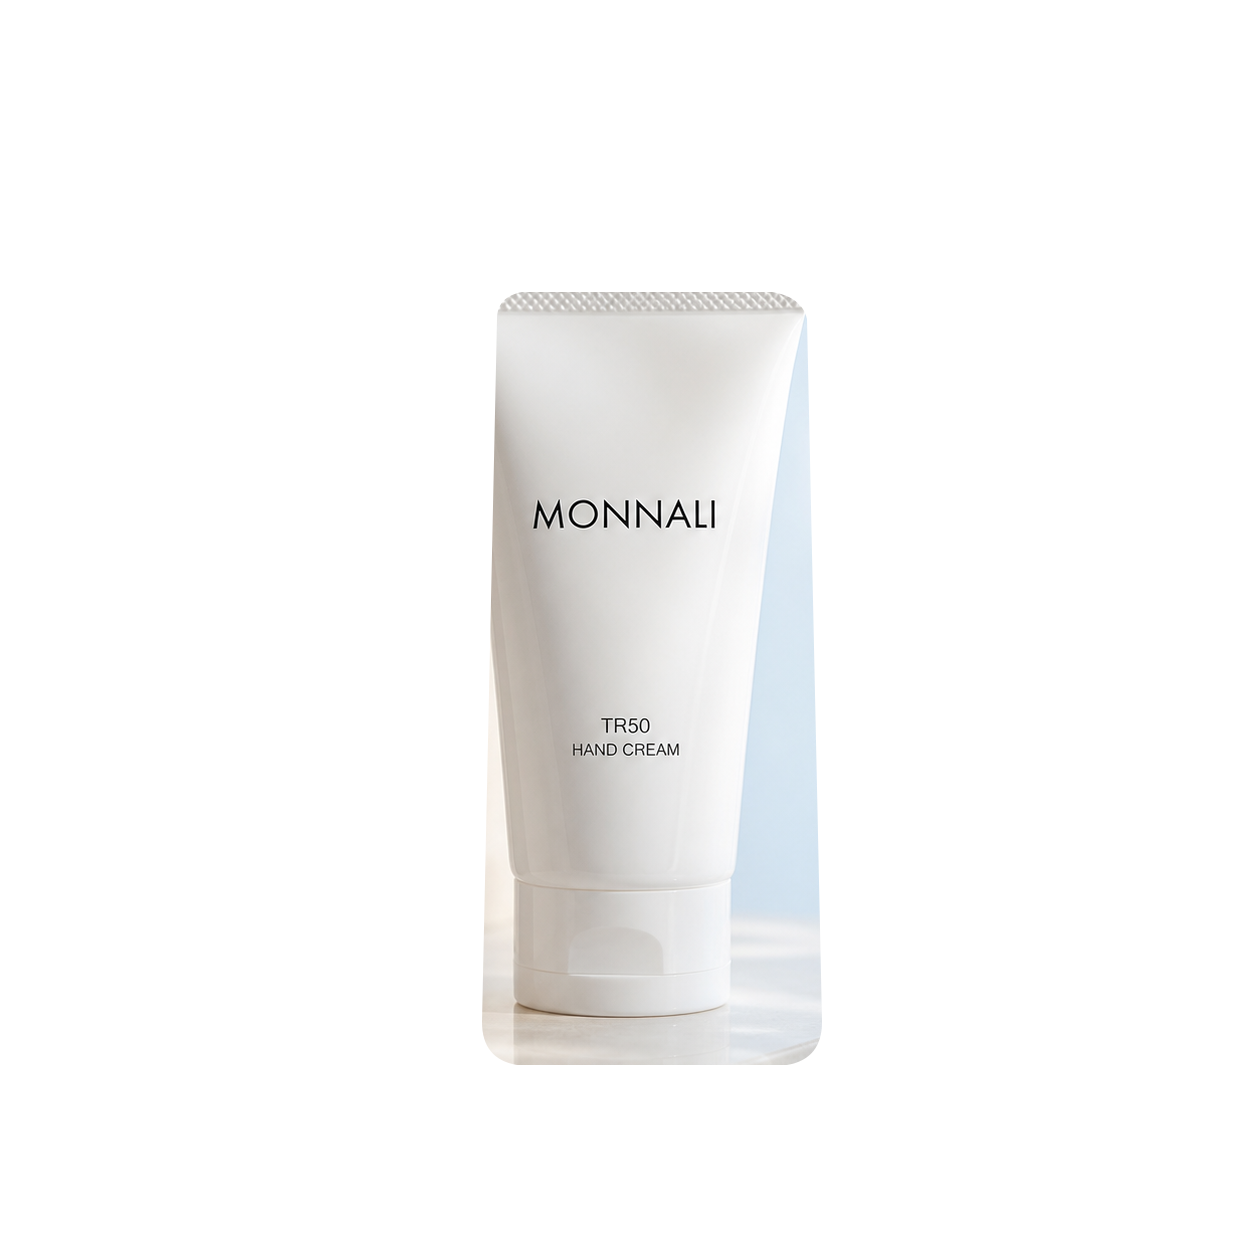
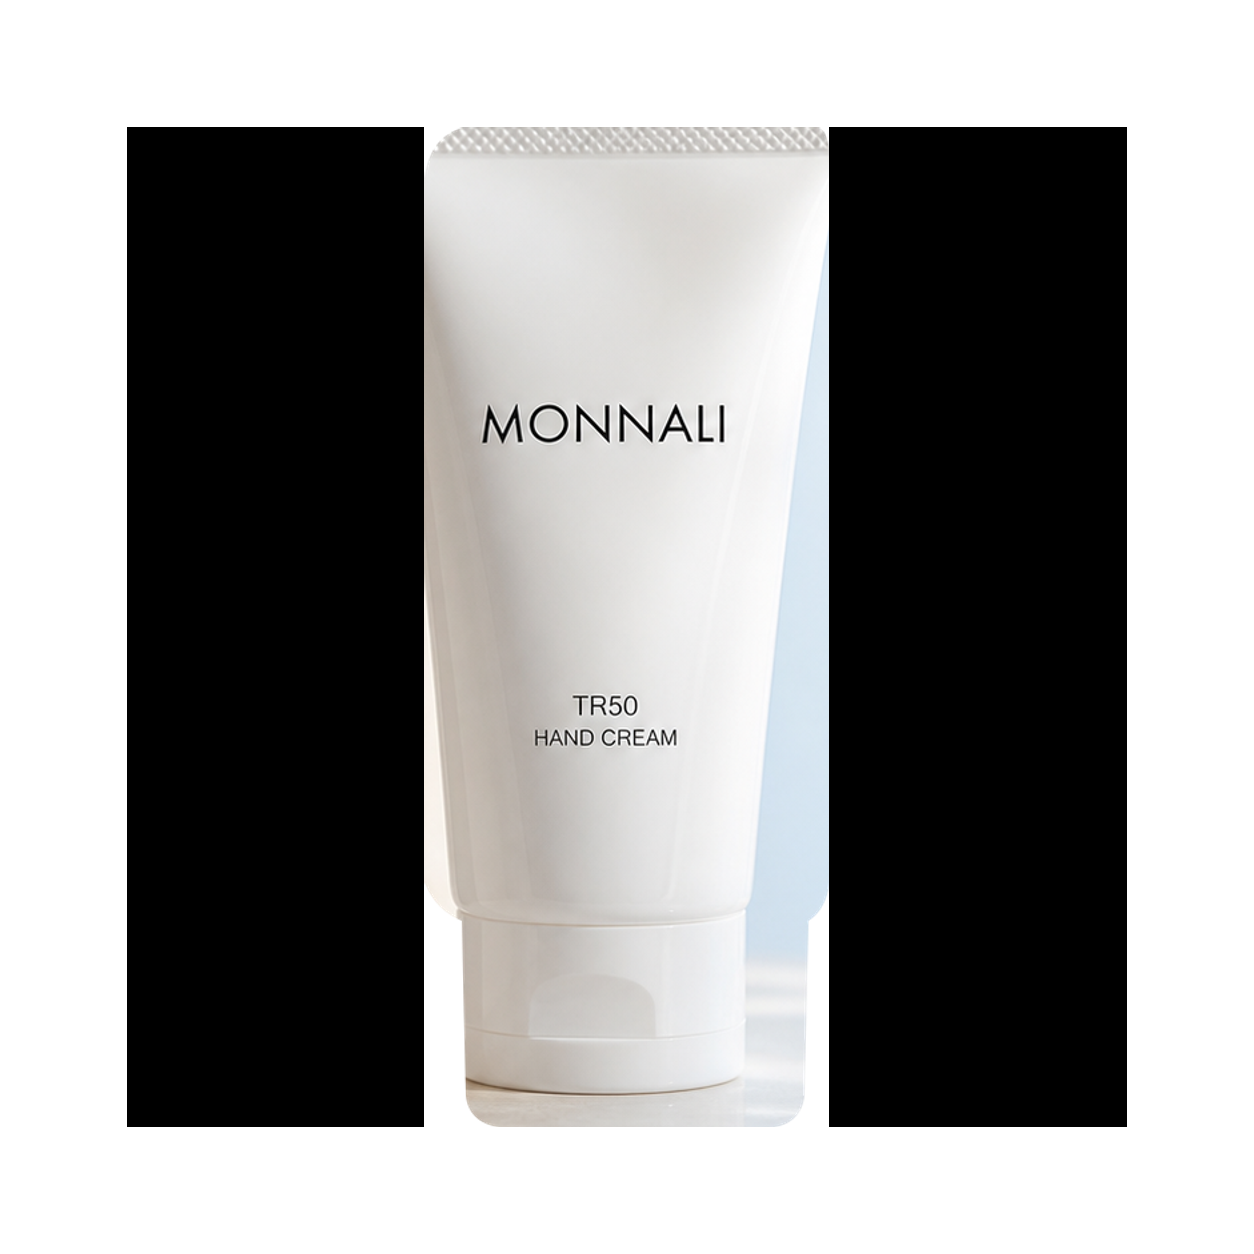
feat: finalize catalog imagery and checkout styles

diff --git a/src/data/product-image-manifest.ts b/src/data/product-image-manifest.ts
@@ -6,7 +6,7 @@ export type ProductImageEntry = {
 
 export const productImageManifest: Record<string, ProductImageEntry> = {
   "new-01": {
-    primary: "/images/kanso/products/amaranth-dr-soie-labeled.png",
+    primary: "/images/kanso/products/amaranth-dr-soie-isolated-v2.png",
     secondary: "/images/kanso/products/amaranth-dr-soie-labeled.png",
     gallery: [
       "/images/kanso/products/amaranth-dr-soie-labeled.png",
@@ -22,31 +22,31 @@ export const productImageManifest: Record<string, ProductImageEntry> = {
   "best-01": { primary: "/images/kanso/products/spa-treatment-cutout.png", secondary: "/images/kanso/products/spa-treatment.png" },
   "best-02": {
     primary: "/images/kanso/products/enzym-cutout.png",
-    secondary: "/images/kanso/products/enzym-cerad-labeled.jpg",
+    secondary: "/images/kanso/products/enzym-cerad-atmosphere.png",
     gallery: [
       "/images/kanso/products/enzym-cutout.png",
-      "/images/kanso/products/enzym-cerad-labeled.jpg",
+      "/images/kanso/products/enzym-cerad-atmosphere.png",
     ],
   },
   "best-03": {
-    primary: "/images/kanso/products/spa-treatment-exo-cutout.png",
-    secondary: "/images/kanso/products/spa-treatment-exo-labeled.jpg",
+    primary: "/images/kanso/products/spa-treatment-exo-isolated.png",
+    secondary: "/images/kanso/products/spa-treatment-exo-atmosphere.png",
     gallery: [
-      "/images/kanso/products/spa-treatment-exo-cutout.png",
-      "/images/kanso/products/spa-treatment-exo-labeled.jpg",
+      "/images/kanso/products/spa-treatment-exo-isolated.png",
+      "/images/kanso/products/spa-treatment-exo-atmosphere.png",
     ],
   },
   "best-04": { primary: "/images/kanso/products/tokio-oil-cutout.png", secondary: "/images/kanso/products/tokio-oil.png" },
   "best-05": { primary: "/images/kanso/products/tokio-treatment-cutout.png", secondary: "/images/kanso/products/tokio-treatment.png" },
-  "face-01": { primary: "/images/kanso/products/face-01-cutout.png", secondary: "/images/kanso/products/face-01.png" },
-  "face-02": { primary: "/images/kanso/products/face-02-cutout.png", secondary: "/images/kanso/products/face-02.png" },
-  "hair-01": { primary: "/images/kanso/products/hair-01-cutout.png", secondary: "/images/kanso/products/hair-01.png" },
-  "hair-02": { primary: "/images/kanso/products/hair-02-isolated.png", secondary: "/images/kanso/products/hair-02.png" },
-  "body-01": { primary: "/images/kanso/products/body-01-isolated.png", secondary: "/images/kanso/products/body-01.png" },
-  "wellness-01": { primary: "/images/kanso/products/wellness-01-isolated.png", secondary: "/images/kanso/products/wellness-01.png" },
-  "wellness-02": { primary: "/images/kanso/products/wellness-02-isolated.png", secondary: "/images/kanso/products/wellness-02.png" },
-  "wellness-03": { primary: "/images/kanso/products/wellness-03-isolated.png", secondary: "/images/kanso/products/wellness-03.png" },
-  "wellness-04": { primary: "/images/kanso/products/wellness-04-isolated.png", secondary: "/images/kanso/products/wellness-04.png" },
-  "wellness-05": { primary: "/images/kanso/products/wellness-05-isolated.png", secondary: "/images/kanso/products/wellness-05.png" },
-  "wellness-06": { primary: "/images/kanso/products/wellness-06-isolated.png", secondary: "/images/kanso/products/wellness-06.png" },
+  "face-01": { primary: "/images/kanso/products/face-01-isolated-v2.png", secondary: "/images/kanso/products/face-01.png" },
+  "face-02": { primary: "/images/kanso/products/face-02-isolated-v2.png", secondary: "/images/kanso/products/face-02.png" },
+  "hair-01": { primary: "/images/kanso/products/hair-01-isolated.png", secondary: "/images/kanso/products/hair-01.png" },
+  "hair-02": { primary: "/images/kanso/products/hair-02-isolated-v2.png", secondary: "/images/kanso/products/hair-02.png" },
+  "body-01": { primary: "/images/kanso/products/body-01-isolated-v2.png", secondary: "/images/kanso/products/body-01.png" },
+  "wellness-01": { primary: "/images/kanso/products/wellness-01-isolated-v2.png", secondary: "/images/kanso/products/wellness-01.png" },
+  "wellness-02": { primary: "/images/kanso/products/wellness-02-isolated-v2.png", secondary: "/images/kanso/products/wellness-02.png" },
+  "wellness-03": { primary: "/images/kanso/products/wellness-03-isolated-v2.png", secondary: "/images/kanso/products/wellness-03.png" },
+  "wellness-04": { primary: "/images/kanso/products/wellness-04-isolated-v2.png", secondary: "/images/kanso/products/wellness-04.png" },
+  "wellness-05": { primary: "/images/kanso/products/wellness-05-isolated-v2.png", secondary: "/images/kanso/products/wellness-05.png" },
+  "wellness-06": { primary: "/images/kanso/products/wellness-06-isolated-v2.png", secondary: "/images/kanso/products/wellness-06.png" },
 };

diff --git a/src/app/globals.css b/src/app/globals.css
@@ -1581,7 +1581,9 @@ html[data-motion-reduced="true"] .motion-reveal {
 .account-nav button:hover, .account-nav button:focus-visible { color: var(--graphite); }
 .account-nav button.account-nav-link { margin-top: 0; align-self: flex-start; border: 0; color: inherit; text-align: left; }
 .account-nav button.account-nav-link.account-nav-active { color: var(--graphite); font-weight: 500; }
-.account-nav button.account-nav-logout { margin-top: auto; color: var(--accent-blue); }
+.account-nav button.account-nav-logout { margin-top: auto; color: #b54843; }
+.account-nav button.account-nav-logout:hover,
+.account-nav button.account-nav-logout:focus-visible { color: #b54843; }
 .account-nav a.account-nav-link { color: inherit; }
 .account-dashboard-main { max-width: 48rem; }
 .account-eyebrow { margin: 0 0 16px; color: var(--cinnabar); font-size: 0.72rem; letter-spacing: 0.1em; text-transform: uppercase; }
@@ -1650,6 +1652,7 @@ html[data-motion-reduced="true"] .motion-reveal {
 .cart-intro > p,
 .checkout-intro > p { max-width: 21rem; margin: 0 0 4px; color: var(--muted); font-size: 0.95rem; line-height: 1.45; }
 .cart-intro > p { max-width: none; }
+.checkout-intro > p { max-width: none; width: min(27rem, 100%); margin-left: auto; }
 .cart-list { border-top: 1px solid var(--graphite); }
 .cart-list-heading { display: grid; grid-template-columns: minmax(0, 1fr) 9rem 7rem; gap: 22px; padding: 13px 0; color: var(--muted); font-size: 0.65rem; letter-spacing: 0.1em; text-transform: uppercase; }
 .cart-list-heading span:nth-child(2),
@@ -1706,12 +1709,37 @@ html[data-motion-reduced="true"] .motion-reveal {
 .checkout-form label { font-size: 0.7rem; }
 .checkout-form input { min-height: 52px; border-color: var(--stone); background: color-mix(in srgb, var(--white) 55%, transparent); }
 .checkout-form input:focus { border-color: var(--cinnabar); box-shadow: 0 0 0 1px var(--cinnabar); }
-.checkout-form fieldset { margin: 0; border: 0; border-top: 1px solid var(--graphite); padding: 16px 0 0; }
+.checkout-form fieldset { margin: 0; border: 0; padding: 0; }
+.checkout-form fieldset::before { content: ""; display: block; border-top: 1px solid var(--graphite); margin-bottom: 4px; }
 .checkout-form legend { padding: 0; color: var(--graphite); font-size: 0.72rem; letter-spacing: 0.08em; text-transform: uppercase; }
 .checkout-form .radio-row { min-height: 32px; border-bottom: 1px solid var(--stone); padding: 8px 0; font-size: 0.85rem; }
 .checkout-form .radio-row input { accent-color: var(--cinnabar); }
 .card-fields { border-top: 1px solid var(--stone); padding-top: 18px; }
-.checkout-submit { width: 100%; min-height: 56px; margin-top: 8px; }
+.checkout-submit {
+  display: inline-flex;
+  width: 100%;
+  min-height: 56px;
+  align-items: center;
+  justify-content: center;
+  margin-top: 8px;
+  border-radius: 4px;
+  padding: 0 24px;
+  color: var(--white);
+  background: var(--graphite);
+  cursor: pointer;
+  font: inherit;
+  font-size: 16px;
+  line-height: 1.2;
+  text-align: center;
+  transition: color 220ms ease, background 220ms ease, transform 220ms var(--ease-soft);
+}
+.checkout-submit:hover,
+.checkout-submit:focus-visible {
+  color: var(--white);
+  background: var(--cinnabar);
+  transform: translateY(-2px);
+}
+.checkout-submit:active { transform: translateY(0); }
 .checkout-summary { position: sticky; top: 24px; gap: 0; border: 0; border-top: 1px solid var(--graphite); padding: 16px 0 0; background: transparent; }
 .checkout-summary-items { display: grid; }
 .checkout-summary-row { align-items: start; border-bottom: 1px solid var(--stone); padding: 16px 0; }
